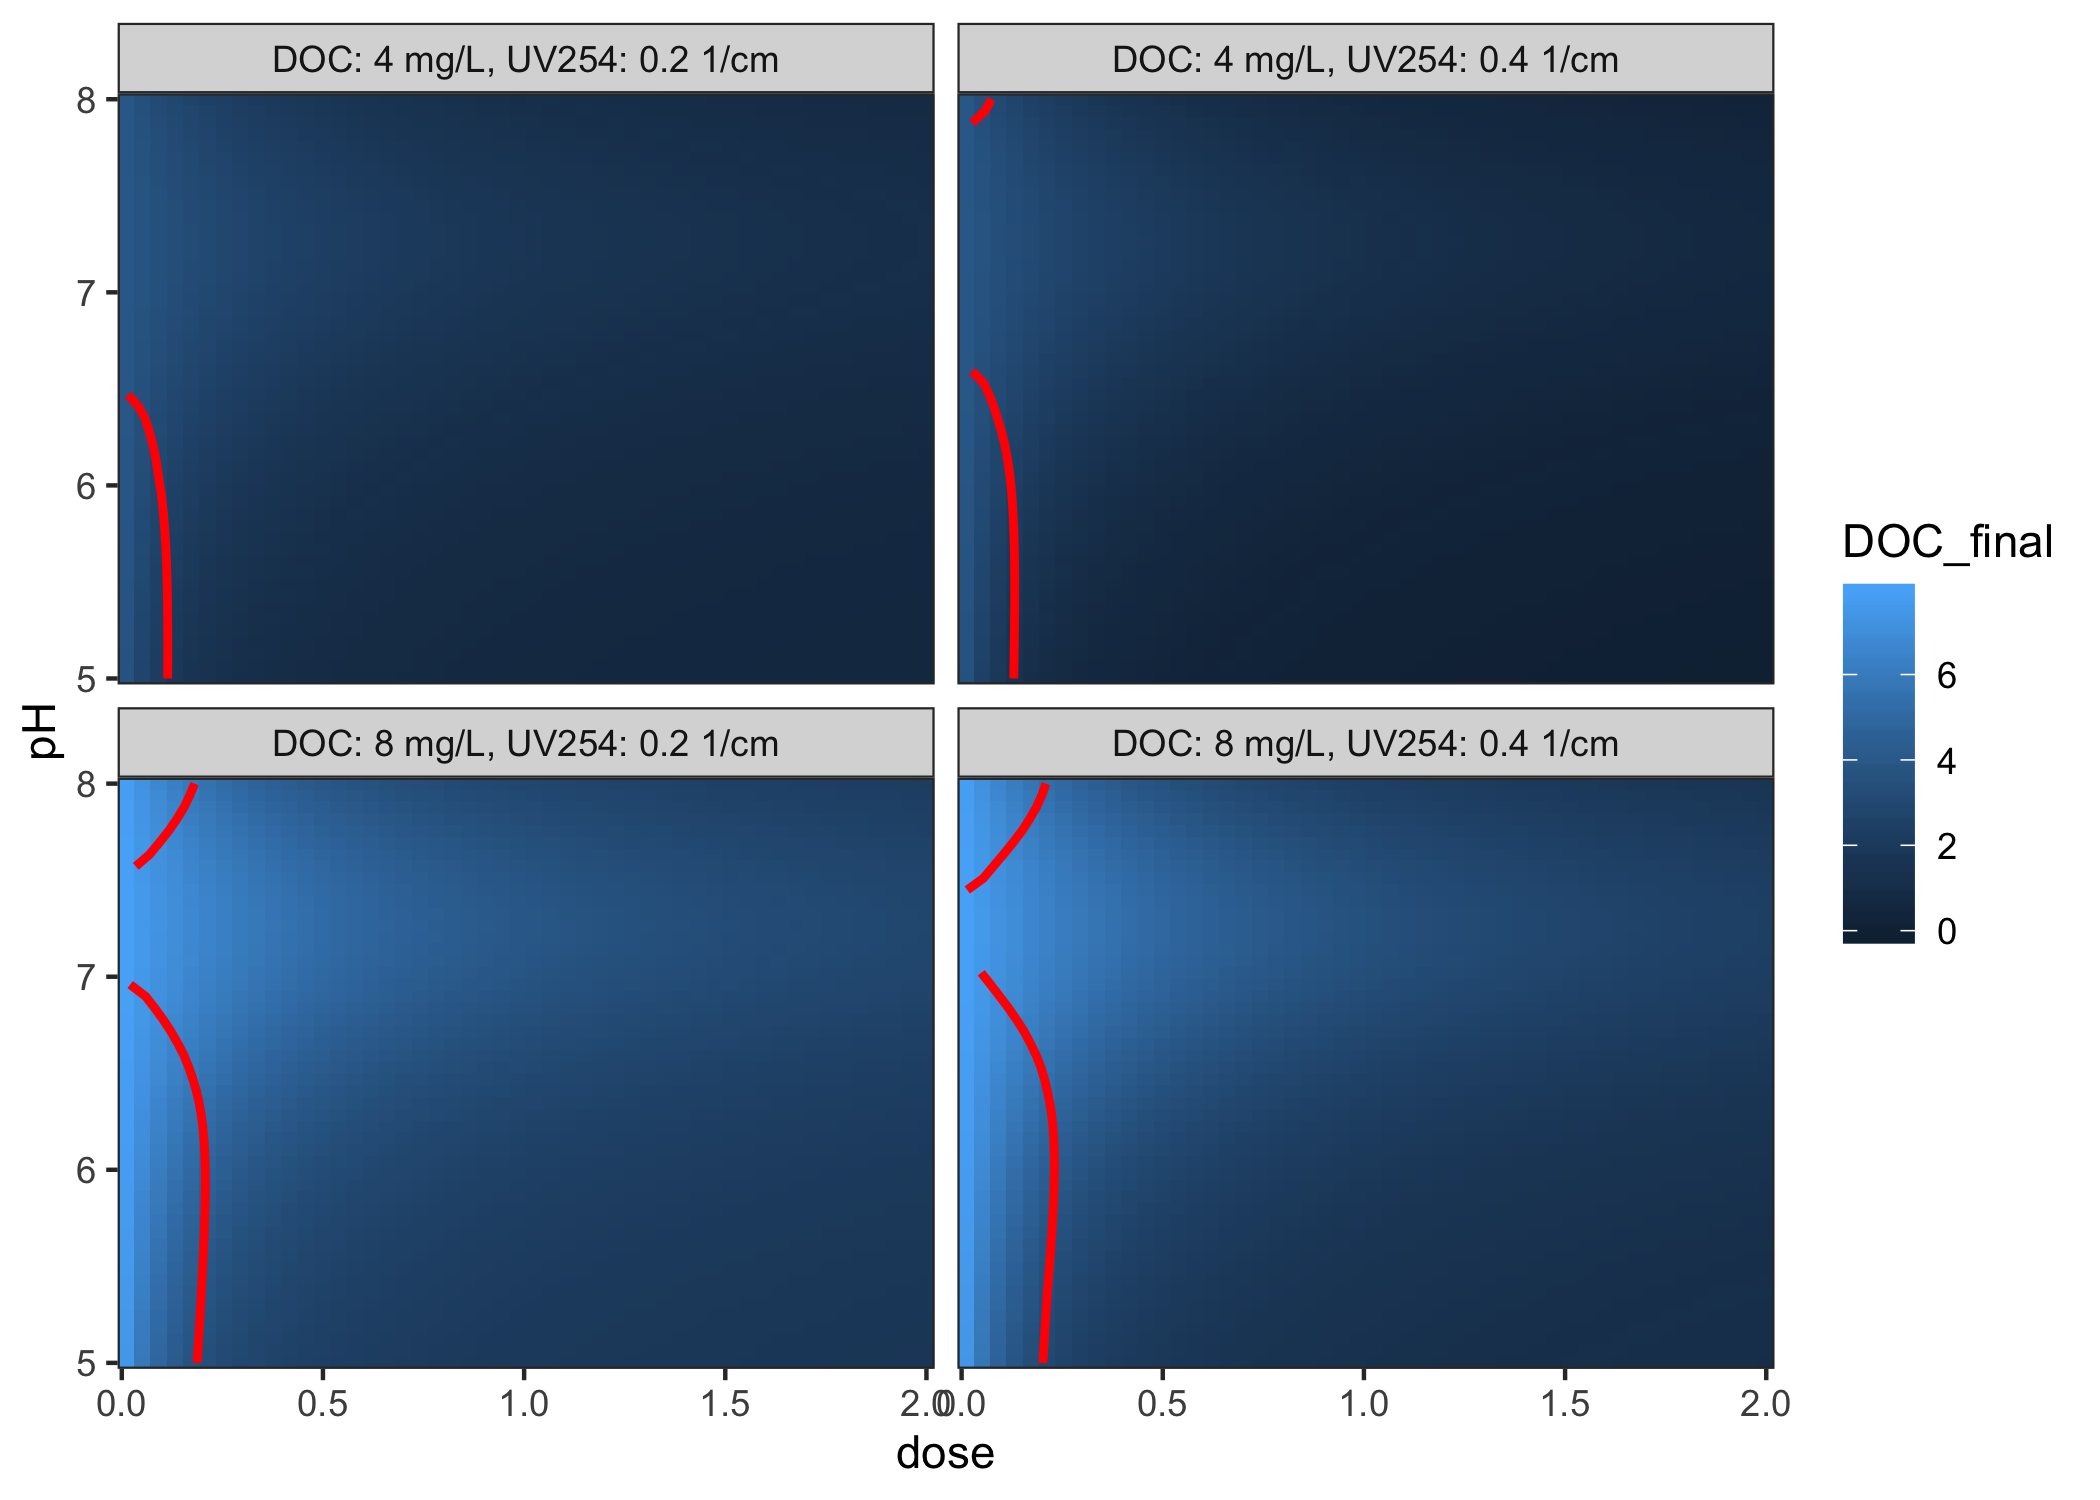
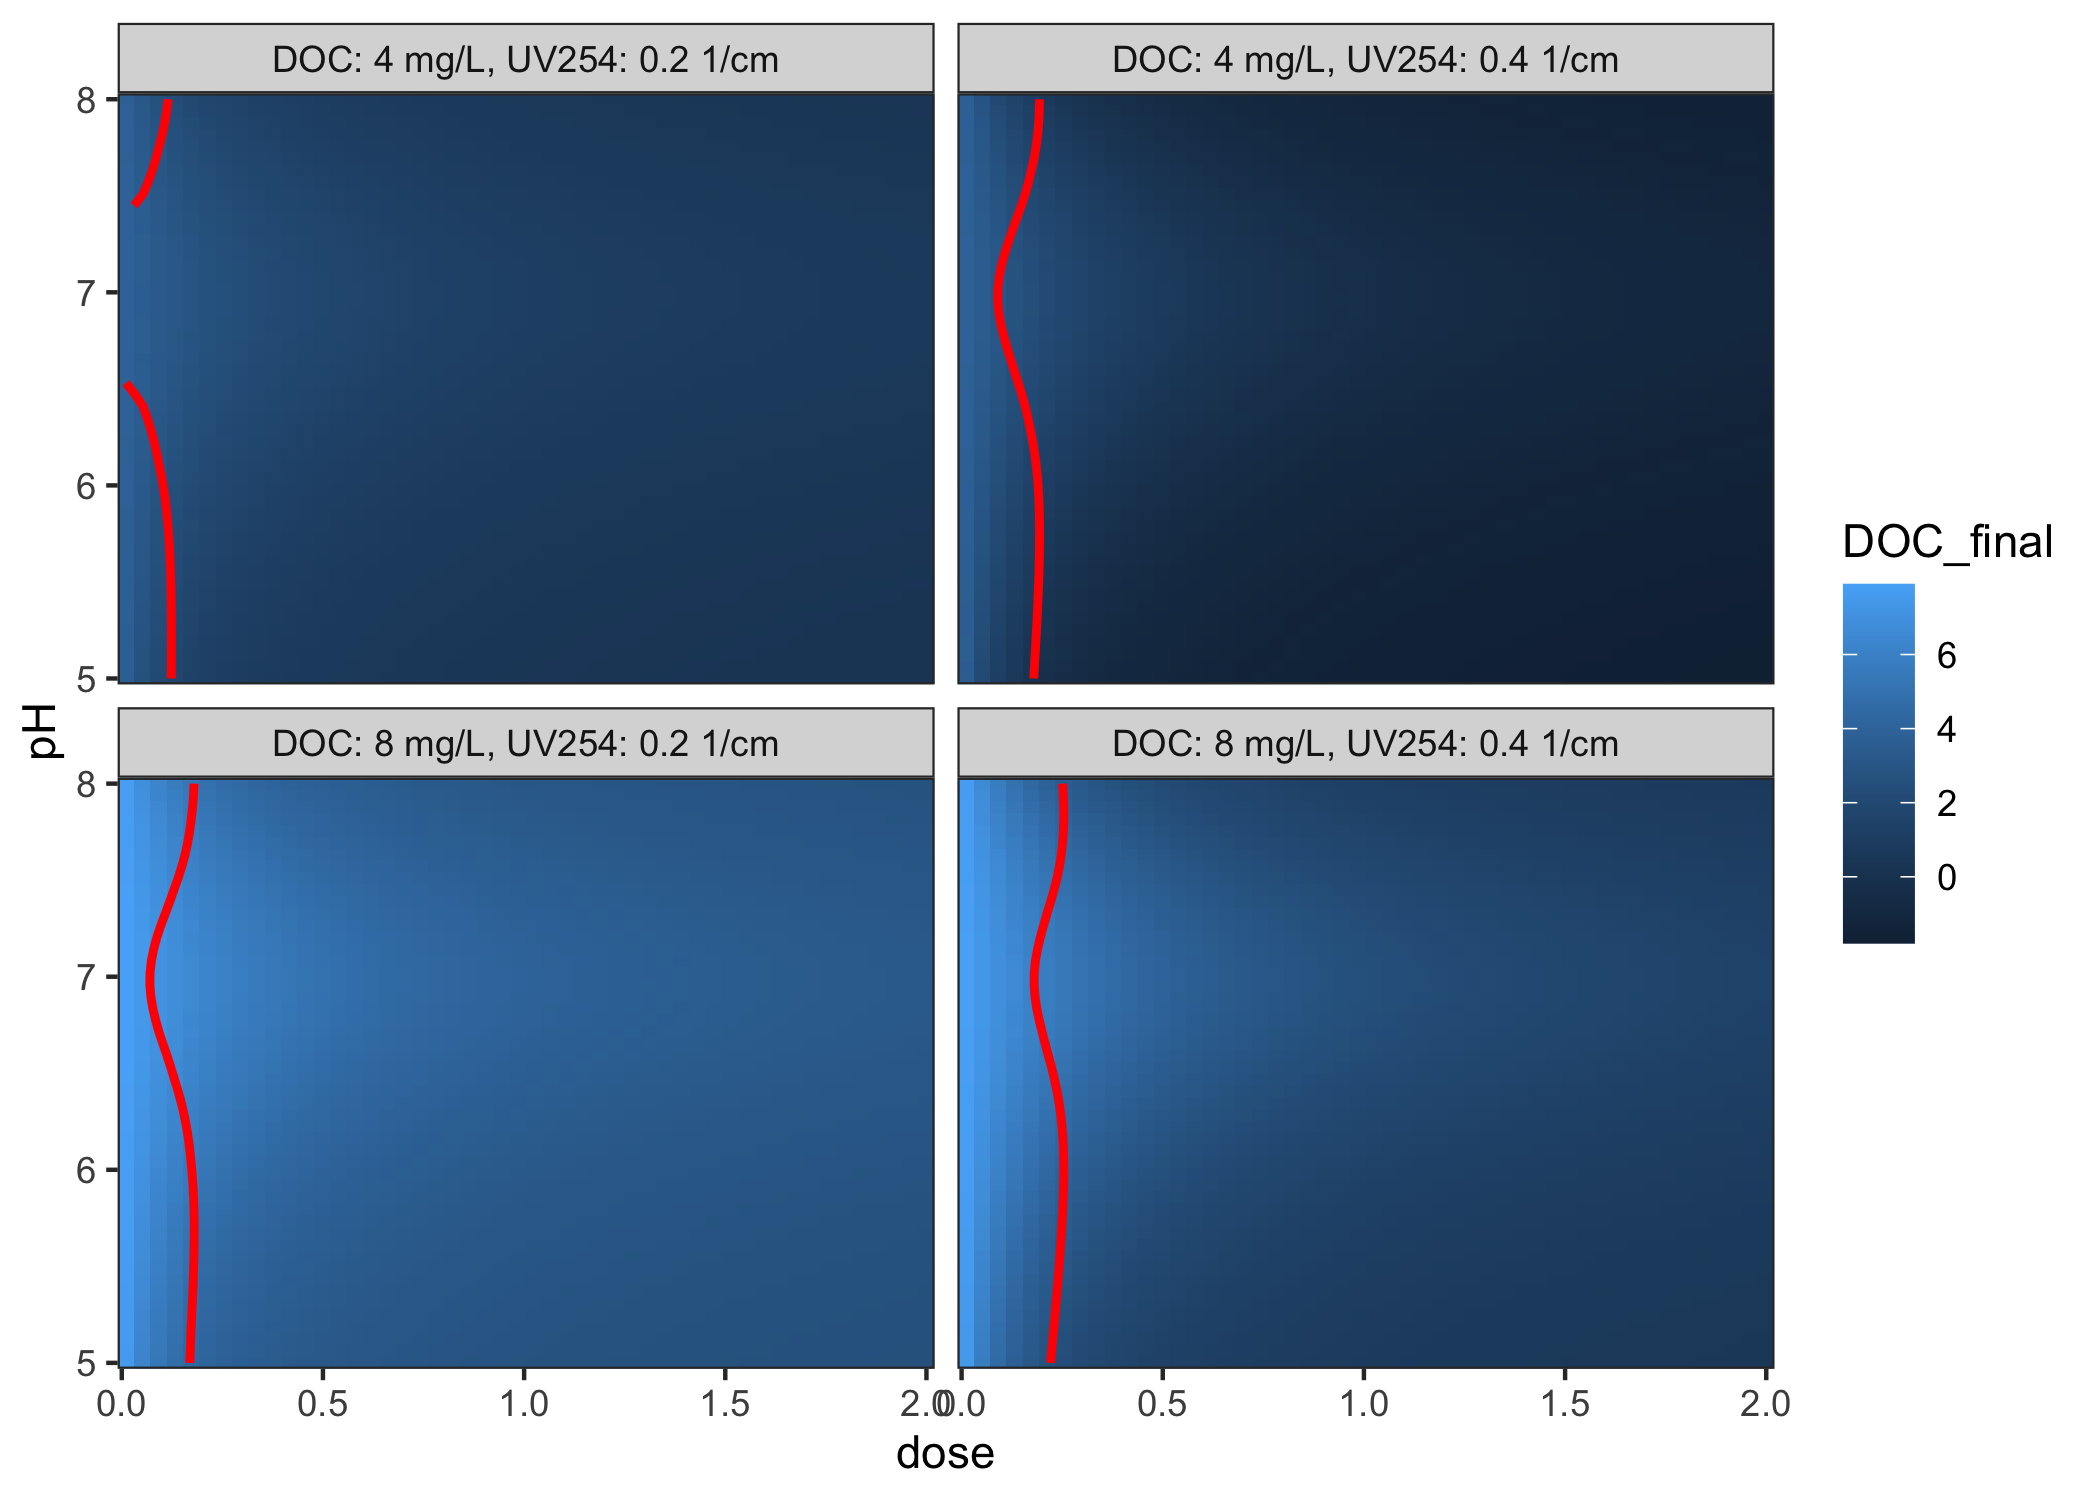
redocument, use github actions

diff --git a/README.md b/README.md
@@ -11,6 +11,7 @@ experimental](https://img.shields.io/badge/lifecycle-experimental-orange.svg)](h
 status](https://travis-ci.org/paleolimbot/edwards97.svg?branch=master)](https://travis-ci.org/paleolimbot/edwards97)
 [![Codecov test
 coverage](https://codecov.io/gh/paleolimbot/edwards97/branch/master/graph/badge.svg)](https://codecov.io/gh/paleolimbot/edwards97?branch=master)
+[![R-CMD-check](https://github.com/paleolimbot/edwards97/actions/workflows/R-CMD-check.yaml/badge.svg)](https://github.com/paleolimbot/edwards97/actions/workflows/R-CMD-check.yaml)
 <!-- badges: end -->
 
 The goal of edwards97 is to implement the Edwards (1997) Langmuir-based
@@ -49,26 +50,24 @@ print(fit)
 #> <edwards_fit_optim>
 #>   Fit optimised for `fit_data_alum`
 #>   Coefficients:
-#>     x3 = 5.22, x2 = -76.2, x1 = 282, K1 = -0.0328, K2 = 0.264, b = 0.0823, root = -1
+#>     x3 = 5.14, x2 = -72.4, x1 = 259, K1 = -0.107, K2 = 0.562, b = 0.0951, root = -1
 #>   Performance:
-#>     r² = 0.953, RMSE = 0.959 mg/L, number of finite observations = 500
+#>     r² = 0.955, RMSE = 0.935 mg/L, number of finite observations = 500
 #>   Input data:
-#>       DOC             dose              pH            UV254       
-#>  Min.   : 1.80   Min.   :0.0084   Min.   :4.500   Min.   :0.0260  
-#>  1st Qu.: 2.81   1st Qu.:0.1323   1st Qu.:5.808   1st Qu.:0.0810  
-#>  Median : 3.94   Median :0.2290   Median :6.500   Median :0.1060  
-#>  Mean   : 6.36   Mean   :0.2644   Mean   :6.430   Mean   :0.2323  
-#>  3rd Qu.: 6.70   3rd Qu.:0.3543   3rd Qu.:6.955   3rd Qu.:0.2470  
-#>  Max.   :26.50   Max.   :1.5152   Max.   :7.900   Max.   :1.3550  
-#>  NA's   :629     NA's   :629      NA's   :629     NA's   :629     
+#>       DOC             dose                pH            UV254       
+#>  Min.   : 1.80   Min.   :0.008378   Min.   :4.500   Min.   :0.0260  
+#>  1st Qu.: 2.81   1st Qu.:0.132264   1st Qu.:5.808   1st Qu.:0.0810  
+#>  Median : 3.94   Median :0.228983   Median :6.500   Median :0.1060  
+#>  Mean   : 6.36   Mean   :0.264423   Mean   :6.430   Mean   :0.2323  
+#>  3rd Qu.: 6.70   3rd Qu.:0.354291   3rd Qu.:6.955   3rd Qu.:0.2470  
+#>  Max.   :26.50   Max.   :1.515151   Max.   :7.900   Max.   :1.3550  
 #>    DOC_final       Predictions       Langmuir a     Sorbable DOC (%)
-#>  Min.   : 1.030   Min.   : 0.683   Min.   : 23.94   Min.   :78.25   
-#>  1st Qu.: 1.968   1st Qu.: 1.874   1st Qu.: 28.63   1st Qu.:80.88   
-#>  Median : 2.700   Median : 2.691   Median : 43.43   Median :83.25   
-#>  Mean   : 3.793   Mean   : 3.732   Mean   : 58.28   Mean   :83.67   
-#>  3rd Qu.: 4.025   3rd Qu.: 4.353   3rd Qu.: 87.19   3rd Qu.:85.40   
-#>  Max.   :26.610   Max.   :19.820   Max.   :199.74   Max.   :92.41   
-#>  NA's   :629      NA's   :629      NA's   :629      NA's   :629
+#>  Min.   : 1.030   Min.   : 0.775   Min.   : 30.25   Min.   : 59.05  
+#>  1st Qu.: 1.968   1st Qu.: 1.984   1st Qu.: 32.92   1st Qu.: 67.62  
+#>  Median : 2.700   Median : 2.748   Median : 41.22   Median : 75.32  
+#>  Mean   : 3.793   Mean   : 3.774   Mean   : 52.58   Mean   : 76.72  
+#>  3rd Qu.: 4.025   3rd Qu.: 4.286   3rd Qu.: 70.51   3rd Qu.: 82.34  
+#>  Max.   :26.610   Max.   :20.430   Max.   :168.85   Max.   :105.16
 plot(fit)
 ```
 
@@ -83,6 +82,8 @@ grid <- coagulate_grid(fit, DOC = c(4, 8), UV254 = c(0.2, 0.4)) %>%
 diminishing_returns <- grid %>% 
   group_by(label, pH) %>% 
   summarise(dose = dose_of_diminishing_returns(dose, DOC_final, threshold = 0.3 / 10))
+#> `summarise()` has grouped output by 'label'. You can override using the
+#> `.groups` argument.
 
 ggplot(grid, aes(x = dose, y = pH)) +
   geom_raster(aes(fill = DOC_final)) +
